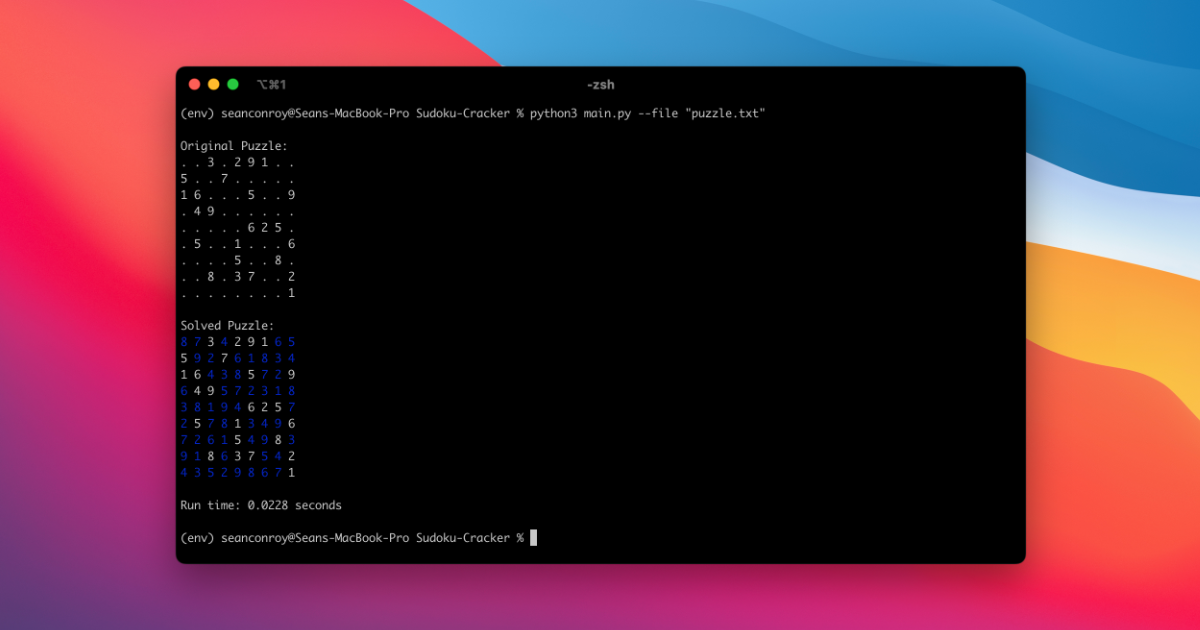
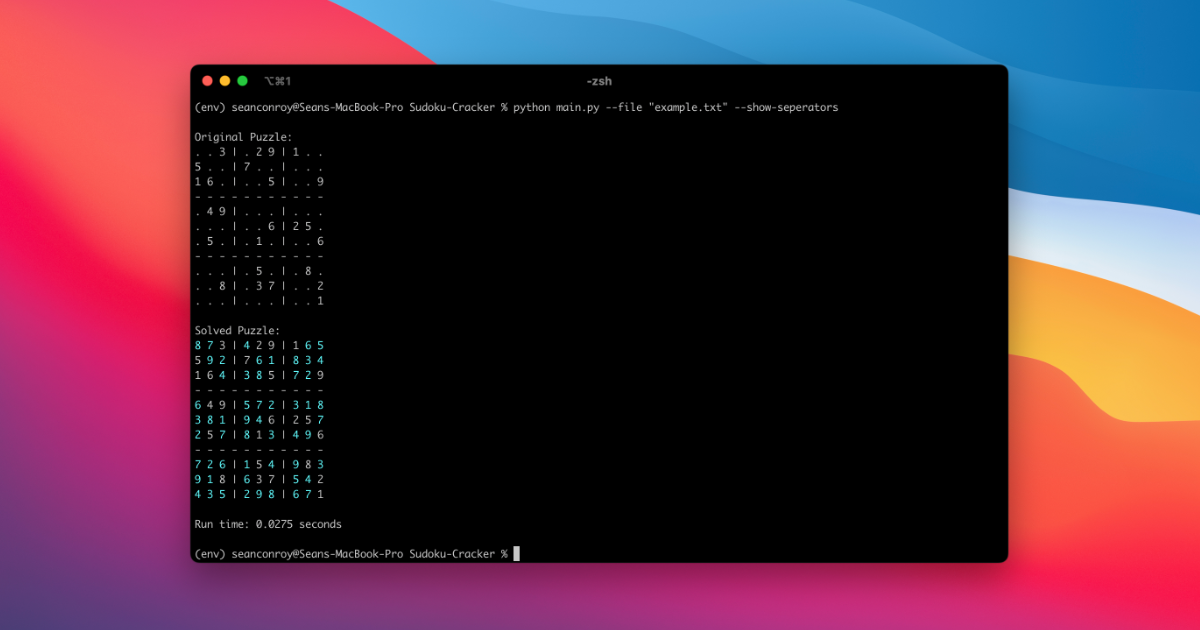
Convert to show seperators by default

diff --git a/sudoku_cracker.py b/sudoku_cracker.py
@@ -4,9 +4,12 @@ from colorama import init, Fore
 init(autoreset=True)
 
 class SudokuCracker:
-    def __init__(self, original_board):
+    def __init__(self, original_board, color_output=True, no_seperators=False, show_progress=False):
         self.original_board = original_board
         self.board = [row[:] for row in original_board]
+        self.color_output = color_output
+        self.no_seperators = no_seperators
+        self.show_progress = show_progress
 
     def is_valid(self, row, col, num):
         """Check if a number can be placed at board[row][col]."""
@@ -36,19 +39,19 @@ class SudokuCracker:
                     return False
         return True
 
-    def print_board(self, color_output=True,  show_seperators=False):
+    def print_board(self):
         """Print the Sudoku board with optional color output."""
         for row in range(9):
-            if show_seperators and row != 0 and row % 3 == 0:
+            if not self.no_seperators and row != 0 and row % 3 == 0:
                 print("- - - - - - - - - - -",)
             for col in range(9):
                 cell_value = self.board[row][col]
-                if show_seperators and col != 0 and col % 3 == 0: 
+                if not self.no_seperators and col != 0 and col % 3 == 0: 
                     print("|", end=" ")
                 if self.original_board[row][col] != 0:
-                    print(Fore.WHITE + str(cell_value) if color_output else str(cell_value), end=" ")
+                    print(Fore.WHITE + str(cell_value) if self.color_output else str(cell_value), end=" ")
                 elif cell_value != 0:
-                    print(Fore.LIGHTCYAN_EX + str(cell_value) if color_output else str(cell_value), end=" ")
+                    print(Fore.LIGHTCYAN_EX + str(cell_value) if self.color_output else str(cell_value), end=" ")
                 else:
                     print('.', end=" ")
             print("")  # New line after each row

diff --git a/main.py b/main.py
@@ -11,8 +11,8 @@ def main():
     parser.add_argument('--rows', nargs=9, help='Enter 9 rows')
     parser.add_argument('--no-color', action='store_false', help='Disable color output')
     parser.add_argument('--no-runtime', action='store_false', help='Disable runtime display')
-    parser.add_argument('--show-seperators', action='store_true', help='Disable runtime display')
-
+    parser.add_argument('--no-seperators', action='store_true', help='Disable Column and Row Seperators')
+    
     args = parser.parse_args()
     
     original_board = [[0 for _ in range(9)] for _ in range(9)]
@@ -27,22 +27,22 @@ def main():
         print("Please provide either a puzzle file or 9 cubes.")
         exit(1)
 
-    solver = SudokuCracker(original_board)
+    solver = SudokuCracker(original_board, color_output=args.no_color, no_seperators=args.no_seperators, show_progress=args.show_progress)
 
     print("\nOriginal Puzzle:")
-    solver.print_board(color_output=args.no_color, show_seperators=args.show_seperators)
+    solver.print_board()
 
     start_time = time.time()
     if solver.solve_sudoku():
         end_time = time.time()
         print("\nSolved Puzzle:")
-        solver.print_board(color_output=args.no_color, show_seperators=args.show_seperators)
+        solver.print_board()
         print("")
 
         if args.no_runtime:
             print(f"Run time: {end_time - start_time:.4f} seconds\n")
     else:
-        print("No solution exists.")
+        print("\nNo solution exists.\n")
 
 if __name__ == "__main__":
     main()

diff --git a/README.md b/README.md
@@ -55,7 +55,7 @@ The Sudoku Cracker allows you to input your Sudoku puzzle as 9 groups of 3x3 num
 Solve puzzle from a set of cubes (input directly):
 
 ```bash
-python main.py --cubes 003500160 029700005 100000009 049000050 000006010 000250006 000008000 050037000 080002001 --show-seperators
+python main.py --cubes 003500160 029700005 100000009 049000050 000006010 000250006 000008000 050037000 080002001
 ```
 
 ### Additional Options
@@ -80,9 +80,9 @@ Disable Runtime Display:
 python main.py --cubes "..." --no-runtime
 ```
 
-Show Cube Row and Column Seperators:
+Disable Column and Row Seperators:
 ```bash
-python main.py --cubes "..." --show-seperators
+python main.py --cubes "..." --no-seperators
 ```
 
 ## Development and Testing
